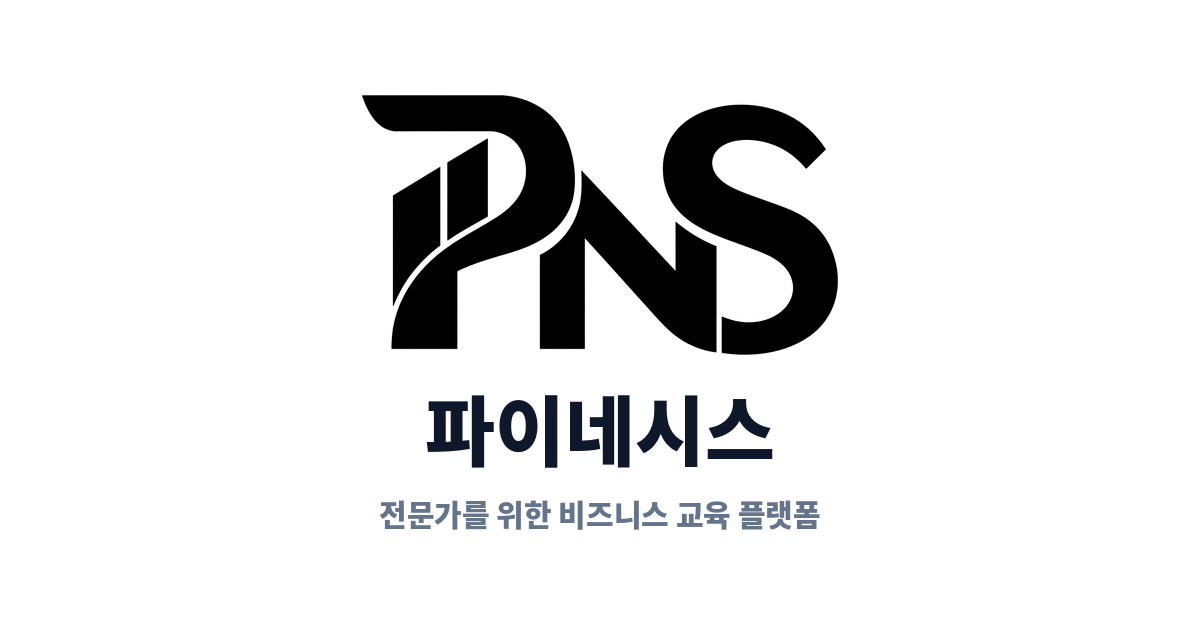
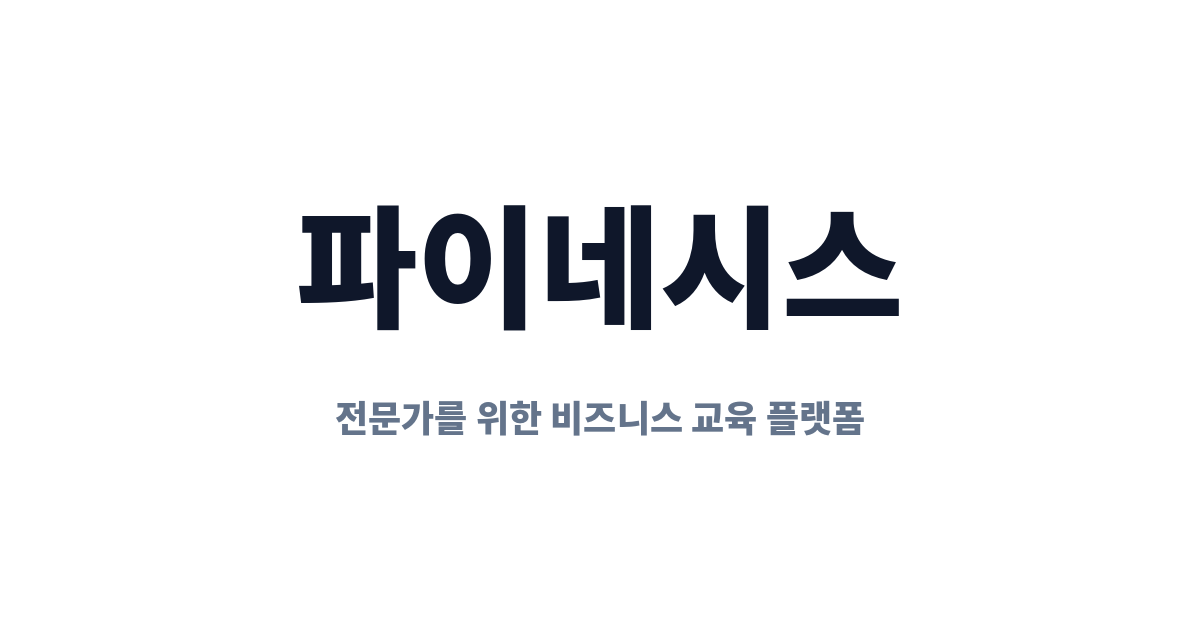
fix: 화면 워드마크는 글자만 — PNS 심볼은 파비콘·앱 아이콘 전용
- BrandLogo에서 심볼 이미지 제거, '파이네시스' 텍스트만
- UI용 축소 심볼(pns-symbol-ui.png) 삭제
- og-image.png를 워드마크 + 태그라인만으로 재생성
- 로고 README·계획 문서(D2, §2, E7)·루트 README 갱신

Claude-Session: https://claude.ai/code/session_01JoCKQpqUASfyvkU1UQdXAS

Changed region(s): [[0.2467, 0.1508, 0.7708, 0.573], [0.2775, 0.6032, 0.74, 0.754], [0.3083, 0.7841, 0.6783, 0.8444]]

diff --git a/src/components/BrandLogo.tsx b/src/components/BrandLogo.tsx
@@ -1,13 +1,9 @@
-// 파이네시스 워드마크 — PNS 심볼 + 한국어 글자 조합 (docs/plan/10-rebrand-phynesis.md D2).
+// 파이네시스 워드마크 — 한국어 글자만 (docs/plan/10-rebrand-phynesis.md D2).
+// PNS 심볼은 파비콘·앱 아이콘에만 쓰고 화면 안에는 넣지 않는다.
 // 헤더·푸터·로그인 화면이 공용으로 쓴다. 링크가 필요하면 바깥에서 <Link>로 감싼다.
 
 type Size = 'sm' | 'md' | 'lg'
 
-const IMG: Record<Size, string> = {
-  sm: 'h-5',
-  md: 'h-6 sm:h-7',
-  lg: 'h-8',
-}
 const TEXT: Record<Size, string> = {
   sm: 'text-lg',
   md: 'text-xl sm:text-2xl',
@@ -16,9 +12,6 @@ const TEXT: Record<Size, string> = {
 
 export default function BrandLogo({ size = 'md', className = '' }: { size?: Size; className?: string }) {
   return (
-    <span className={`inline-flex items-center gap-2 ${className}`}>
-      <img src="/logo/pns-symbol-ui.png" alt="" aria-hidden className={`${IMG[size]} w-auto`} />
-      <span className={`${TEXT[size]} font-black tracking-tight text-slate-900`}>파이네시스</span>
-    </span>
+    <span className={`${TEXT[size]} font-black tracking-tight text-slate-900 ${className}`}>파이네시스</span>
   )
 }

diff --git a/docs/plan/10-rebrand-phynesis.md b/docs/plan/10-rebrand-phynesis.md
@@ -16,8 +16,8 @@
 
 | 항목 | 값 |
 |---|---|
-| 워드마크 | 한국어 **파이네시스** (헤더·푸터·로그인 글자 로고). 영문 `PHYNESIS`는 문장 내 병기용 |
-| 심볼(로고) | **PNS 모노그램** — `public/logo/` (검정/흰 원본 + 투명 심볼). 파비콘 적용 완료 (§6 E7) |
+| 워드마크 | 한국어 **파이네시스** 글자만 (헤더·푸터·로그인·OG 이미지). 영문 `PHYNESIS`는 문장 내 병기용 |
+| 심볼(로고) | **PNS 모노그램** — `public/logo/`. **파비콘·앱 아이콘에만 사용**, 화면 안에는 넣지 않는다 (§6 E7) |
 | 한글 표기 | **파이네시스** (고정. "피네시스" 표기는 사용하지 않음) |
 | 어원 | Paideia(파이데이아, 전인적 교육) + Phronesis(프로네시스, 실천적 지혜) |
 | 포지셔닝 | 전문가(전문직·자영 전문가·지도자 등)가 **자기 사업을 운영하는 데 필요한 실천 지식**을 다른 전문가에게서 배우는 교육 플랫폼 |
@@ -32,7 +32,7 @@
 ### 1.1 용어 설명 (D2·D3)
 
 - **워드마크(wordmark)** = 로고를 그림 없이 **글자만으로** 표현한 것. 지금 헤더 왼쪽 위의 `Grapplay-biz` 글자가
-  워드마크다. → 한국어 **파이네시스**로 확정(D2). PNS 심볼 이미지 옆에 붙여 쓴다.
+  워드마크다. → 한국어 **파이네시스**로 확정(D2). 화면에는 글자만 쓰고 PNS 심볼은 파비콘에만 쓴다.
 - **태그라인(tagline)** = 브랜드 이름 옆에 항상 붙는 **한 줄 설명**. 이름만 보고는 뭘 하는 서비스인지 알 수
   없으니 필요하다. 지금 푸터의 "체육관 경영자와 지도자를 위한 비즈니스 교육 플랫폼."이 태그라인이고,
   브라우저 탭 제목(`index.html`의 `<title>`)에도 같은 역할로 들어간다.
@@ -42,7 +42,7 @@
 | # | 결정 | 상태 | 값 / 비고 |
 |---|---|---|---|
 | D1 | 한글 표기 | ✅ 확정 | **파이네시스**. 로고·도메인·앱스토어·약관 전부 동일 표기 |
-| D2 | 워드마크 표기 | ✅ 확정 | 한국어 **파이네시스**. 헤더/푸터/로그인 3곳에 **PNS 심볼(`/logo/pns-symbol.png`) + "파이네시스"** 조합. `font-brand`(Inter, 라틴 전용)는 더 이상 쓰지 않고 Noto Sans KR 900으로 |
+| D2 | 워드마크 표기 | ✅ 확정 | 한국어 **파이네시스** 글자만. 헤더/푸터/로그인 3곳 공통(`BrandLogo.tsx`). **PNS 심볼은 파비콘·앱 아이콘 전용**. `font-brand`(Inter, 라틴 전용) 제거, Noto Sans KR 900 |
 | D3 | 태그라인 | 🟡 기본값 채택 | **"전문가를 위한 비즈니스 교육 플랫폼"** (푸터·`<title>`·`meta description`용, 서술형). 랜딩 히어로는 §3.1의 감성 카피를 따로 쓴다. 다른 의견 없으면 이대로 진행 |
 | D4 | 도메인 | ⬜ 미정 | phynesis.com / .kr / .co 확보 여부 확인 → Vercel 연결. **KIPRIS 상표 검색** 병행 |
 | D5 | 대표 이메일 | ⬜ 미정 | 현재 `grapplay.com@gmail.com` (푸터·문의·개인정보 책임자 3곳). 새 주소를 만들지, 당분간 유지할지 |
@@ -59,19 +59,19 @@
 
 ## 2. PR 1-A: 브랜드 표기 교체 (기계적) — ✅ 완료
 
-> 헤더·푸터·로그인 워드마크는 공용 컴포넌트 `src/components/BrandLogo.tsx`(PNS 심볼 + 파이네시스)로 뽑았다.
+> 헤더·푸터·로그인 워드마크는 공용 컴포넌트 `src/components/BrandLogo.tsx`("파이네시스" 글자만)로 뽑았다.
 > `index.html`에 `meta description`·OG 태그·`og-image.png`(1200×630)까지 추가. `--font-brand` 토큰 제거.
 
 ### 2.1 현재 상태 → 변경
 
 | 파일 | 위치 | 현재 | 변경 |
 |---|---|---|---|
-| `src/components/AcademyLayout.tsx` | :59-60 헤더 로고 | `Grapplay` + `-biz` 2 span | `<img src="/logo/pns-symbol.png" alt="" class="h-6">` + `파이네시스` 텍스트. `font-brand` 제거, `font-black` |
+| `src/components/AcademyLayout.tsx` | :59-60 헤더 로고 | `Grapplay` + `-biz` 2 span | `<BrandLogo>` — `파이네시스` 텍스트만, `font-black`. `font-brand` 제거 |
 | `src/components/AcademyLayout.tsx` | :142-143 푸터 로고 | 같음 | 같음 |
 | `src/components/AcademyLayout.tsx` | :146 푸터 설명 | "체육관 경영자와 지도자를 위한 비즈니스 교육 플랫폼." | "전문가를 위한 비즈니스 교육 플랫폼." (D3) |
 | `src/components/AcademyLayout.tsx` | :168 주석 | "그래플레이 본사이트와 동일" | "운영 법인 그래플레이 사업자 정보" |
 | `src/components/AcademyLayout.tsx` | :189 저작권 | `© 2026 Grapplay.` | `© 2026 PHYNESIS. Operated by 그래플레이.` (D9) |
-| `src/pages/AuthPage.tsx` | :55-56 로고 | `Grapplay` + `-biz` | 심볼 + `파이네시스` (헤더와 동일 조합) |
+| `src/pages/AuthPage.tsx` | :55-56 로고 | `Grapplay` + `-biz` | `<BrandLogo size="lg">` (헤더와 동일, 글자만) |
 | `index.html` | `<title>` | "그래플레이 비즈 — 체육관 경영자를 위한 비즈니스 교육" | "파이네시스 — 전문가를 위한 비즈니스 교육 플랫폼" + `<meta name="description">` 신설 |
 | `package.json` | `name` | `grapplay-biz` | `phynesis` |
 | `src/data/mock.ts` | :1 주석 | "그래플레이 비즈 —" | "파이네시스 —" |
@@ -264,7 +264,7 @@ npm run build
 | E4 | 토스페이먼츠 | 상점명(결제창·영수증·카드 명세 표기) | `orderName`은 강의 제목이라 코드 변경 없음(`Checkout.tsx:72`). 상점명은 대시보드 설정 |
 | E5 | Vimeo | 폴더/프로젝트명 | 선택. 사용자 비노출 |
 | E6 | Supabase 프로젝트명 | 대시보드 표시명만 | 선택. URL 불변 |
-| E7 | 파비콘·OG 이미지 | ✅ 완료 — 파비콘 세트 + `og-image.png`(1200×630, 심볼+워드마크+태그라인) + OG/twitter 메타 태그 | 완료 |
+| E7 | 파비콘·OG 이미지 | ✅ 완료 — 파비콘 세트(PNS 심볼) + `og-image.png`(1200×630, 워드마크+태그라인, 심볼 없음) + OG/twitter 메타 태그 | 완료 |
 | E8 | 통신판매업 | 신고 사항 중 **인터넷 도메인** 변경 신고 | 도메인 바뀌면 필요. 상호는 불변 |
 | E9 | 공지 | 약관 변경 공지 배너 (관리자 배너 탭) — 배포 7일 전 | §2.2 |
 | E10 | GitHub | 리포 rename(D10), Vercel Git 연동 재확인 | 선택 |

diff --git a/public/logo/README.md b/public/logo/README.md
@@ -4,9 +4,10 @@
 |---|---|
 | `pns-black.png` | 원본 — 검정 PNS 심볼 / 흰 배경 (1254×1254) |
 | `pns-white.png` | 원본 — 흰 PNS 심볼 / 검정 배경 (1254×1254) |
-| `pns-symbol.png` | 검정 심볼만 투명 배경으로 추출 (1048×573). 헤더 등 UI에 넣을 때 사용 |
+| `pns-symbol.png` | 검정 심볼만 투명 배경으로 추출 (1048×573). 파비콘·아이콘 생성 원본 |
 
-파비콘(`/favicon-*.png`, `/favicon.ico`, `/apple-touch-icon.png`)은 `pns-symbol.png`를 정사각형 캔버스에
-여백 10%로 맞춰 생성했다. 다크 모드용(`favicon-dark-*.png`)은 흰 심볼 / 검정 배경.
+**PNS 심볼은 파비콘·앱 아이콘(`/favicon-*.png`, `/favicon.ico`, `/apple-touch-icon.png`)에만 쓴다.**
+화면 안(헤더·푸터·로그인)과 OG 이미지에는 한국어 워드마크 **파이네시스** 글자만 쓴다
+(`src/components/BrandLogo.tsx`, 계획: `docs/plan/10-rebrand-phynesis.md` D2).
 
-워드마크(글자 로고)는 한국어 **파이네시스** 로 쓴다 (계획: `docs/plan/10-rebrand-phynesis.md` D2).
+파비콘은 `pns-symbol.png`를 정사각형 캔버스에 여백 10%로 맞춰 생성했다. 다크 모드용(`favicon-dark-*.png`)은 흰 심볼 / 검정 배경.

diff --git a/README.md b/README.md
@@ -72,7 +72,7 @@ npm run preview  # 빌드 결과 미리보기
 
 ## 브랜드 자산
 
-- 로고: `public/logo/` (PNS 심볼 원본 검정/흰, 투명 심볼, UI용 축소본). 설명은 `public/logo/README.md`.
+- 로고: `public/logo/` (PNS 심볼 원본 검정/흰, 투명 심볼). **심볼은 파비콘·앱 아이콘에만** 쓴다. 설명은 `public/logo/README.md`.
 - 파비콘·OG 이미지: `public/favicon-*.png`, `favicon.ico`, `apple-touch-icon.png`, `og-image.png`, `site.webmanifest`.
 - 워드마크: 한국어 **파이네시스** — `src/components/BrandLogo.tsx`.
 - 포인트 컬러: violet 계열 단색 (`src/index.css`).
